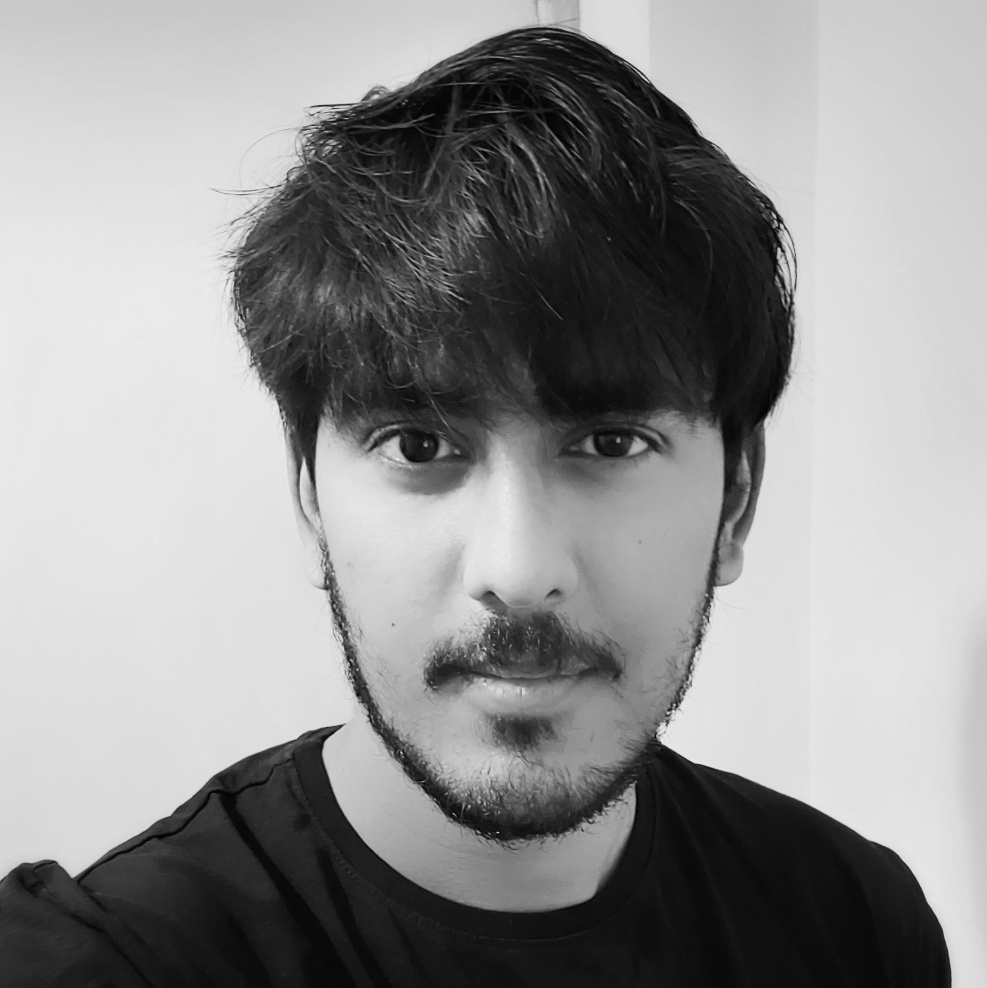
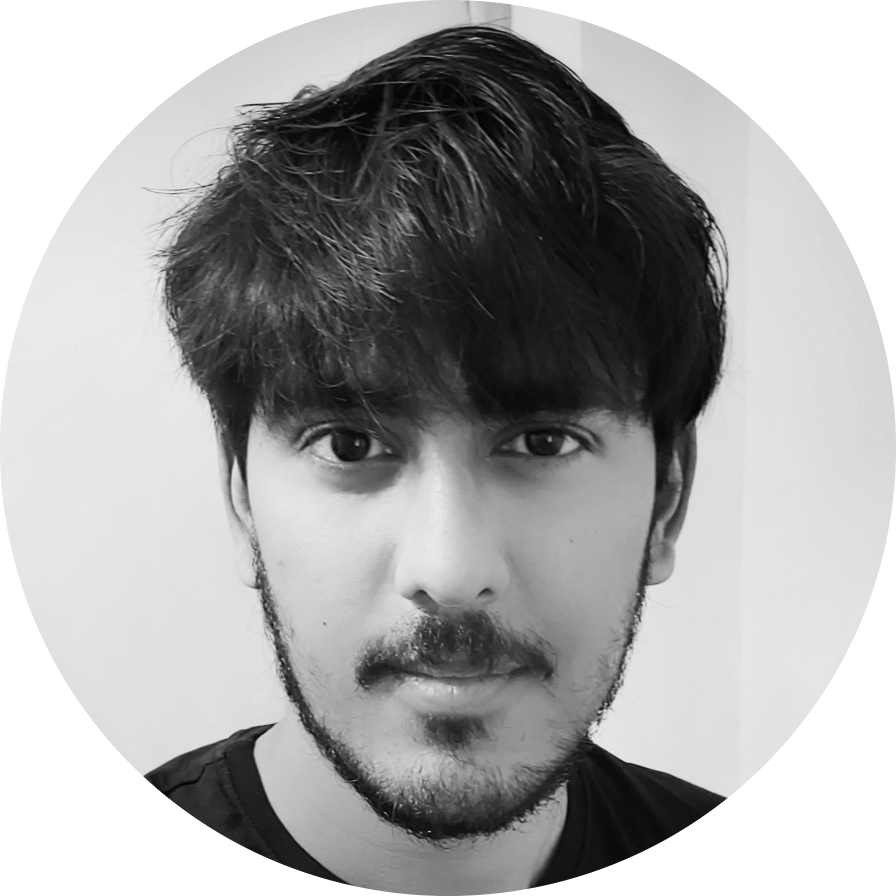
updated the html code for personal website

diff --git a/personal_website.html b/personal_website.html
@@ -7,30 +7,30 @@
     <title>Nithin Kumar M</title>
 </head>
 <body>
-    <img src="Nithin.jpeg" width="100" height="100">
+    <img src="Nithin.jpeg" width="200" height="200">
     <h1><font color="maroon">Nithin Kumar M</font></h1>
     <dt><em> Graphics Performance Verification Engineer</em></dt>
     <dt><em>Currently working at <strong> Intel Corporation</strong> | Ex- Arm | Ex- Tata Elxsi </em></dt>     
     <dt><em>Bangalore, India. PIN: 560064</em></dt>
 <hr>
 <h3><font color="maroon">About Me</font></h3>
-<p> I am a Verification Engineer with <strong>6+ Years</strong> of Industry level Experience. I currenty <strong>Lead the Performance Verification of L3 cluster</strong> in the Graphics Pipeline at <strong>Intel Corporation</strong>. My prior experience include working as a Verification Engineer at <strong>Arm</strong> Embedded Technologies and <strong>Tata Elxsi</strong> Private Limited. I have completed my <strong>Bachelors of Engineering</strong> in <strong>Electronics and Instrumentation</strong> from <strong>M.S.Ramaiah institute of Technology</strong>, Bangalore. I would like to work in an environment in which there are tons of challenges to better myself as an individual as well as contibute to the Organization</p>
+<li> I am a Verification Engineer with <strong>6+ Years</strong> of Industry level Experience. I currenty <strong>Lead the Performance Verification of L3 cluster</strong> in the Graphics Pipeline at <strong>Intel Corporation</strong>. My prior experience include working as a Verification Engineer at <strong>Arm</strong> Embedded Technologies and <strong>Tata Elxsi</strong> Private Limited. I have completed my <strong>Bachelors of Engineering</strong> in <strong>Electronics and Instrumentation</strong> from <strong>M.S.Ramaiah institute of Technology</strong>, Bangalore. I would like to work in an environment in which there are tons of challenges to better myself as an individual as well as contibute to the Organization</li>
 <hr>
 
 <h3><font color="maroon">Skills</font></h3>
 <ul>
-    <li> Verification :  System Verilog, UVM , VMM</li>
+    <li> Verification :  Verilog, System Verilog and UVM </li>
     <li> Languages : Python , C++, ARM Assembly, Perl and Ruby (basics) </li>
-    <li> Front-end : HTML5, CSS3, JavaScript </li>
-    <li> SVN tools : Gut, GitLab, GitHub, Tortoise Git</li>
-    <li> Simulators : ModelSim , Synopsys VCS</li>
-    <li> Operating systems : Windows, Linux</li>
-    <li> Code editors : Visual Studio, Atom , Sublime, Notepad++</li>
+    <li> Front-end : HTML5, CSS3 and JavaScript </li>
+    <li> SVN tools : Gut, GitLab, GitHub and Tortoise Git</li>
+    <li> Simulators : ModelSim and Synopsys VCS</li>
+    <li> Operating systems : Windows and Linux</li>
+    <li> Text Editors : Visual Studio, Atom , Sublime , Vim and Notepad++</li>
 </ul>
 <hr>
 
 <h3><font color="maroon">Work Experience</font></h3>
-<p><font color="Maroon"><strong>Intel Corporation  |  Graphics Performance Verification Engineer (AXG Group) | October 2020 to Present</strong></font></p>
+<li><font color="Maroon"><strong>Intel Corporation  |  Graphics Performance Verification Engineer (AXG Group) | October 2020 to Present</strong></font></li>
 <ul>
 <li>Lead Performance verification of L3 cache at Cluster, GT, SOC and Emulation level</li>
 <li>Responsible for Understaning the uarch and design, Performance scenario planning, Coding tests and testbench components in SV and UVM, debugging , project closure and thorough documentation</li>
@@ -43,7 +43,7 @@
 <li>Interviewing potential junor candiates for our team</li>
 </ul>
 
-<p><font color="maroon"><strong>Arm Embedded Tecnologies  |  Architecture Verification Engineer in v8A team (ATEG Group) | August 2018 to September 2020</strong></font></p>
+<li><font color="maroon"><strong>Arm Embedded Tecnologies  |  Architecture Verification Engineer in v8A team (ATEG Group) | August 2018 to September 2020</strong></font></li>
 <ul>
 <li>Majore focus on Core Aspects of the Architecture which included ISA ( Instruction set Architecture), Exception Model, IP Scenarios , A32 and A64 Execution states , FLoating points etc. to name a few</li>
 <li>Good Hands on experience in coding tests using Arm Assembly language</li>
@@ -52,13 +52,50 @@
 <li>Lead the release activities for 2 to 3 releases - Model debugger checks and CentOS checks</li>
 </ul>
 
-<p><font color="maroon"><strong>TATA Elxsi Private Limited  |  ASIC Verification Engineer (SBU) | August 2016 to July 2018</strong></font></p>
+<li><font color="maroon"><strong>TATA Elxsi Private Limited  |  ASIC Verification Engineer (SBU) | August 2016 to July 2018</strong></font></li>
 <ul>
 <li>I was part of 4 different projects which involved IP and SOC level verification for client RENESAS ( UK and JAPAN) </li>
 <li>Coded multiple testbench components from scratch using SV and UVM</li>
 <li>Good handon experience in Ethernet , CAN , CAN-FD Protocols</li>
 <li>Responsible for validating Ethernet frame control, coding tests, UVM components, assertions and coverage plans for the feature</li>
 </ul>
+
+<h3><font color="maroon"> Achievements</font></h3>
+<ul>
+    <li> Recieved various rewards and recognitions from ARM and INTEL for work related contributions.</li>
+    <li> Volunteered and developed Android & IOS Mobile Application for Regional Engineering Conference-2019 (Asia level).</li>
+    <li> Good experience in giving sessions on system verilog, UVM and mentoring junior engineers</li>
+    <li> Sharing knowledge with Engineering students, I have conducted seminars on ARM Architecture in College. Received recognitions from the Head of Department for the same</li>
+    <li>Alumini Project Award winner for Humanoid Robot in 2016 ( funded by State Government of Karnataka) during my Bachelors Degree.</li>
+    <li>Runner-up of ABB Innovation Challenge India held in 2016.</li>
+    <li> Curious in learning python, web development, machine learning, soft skills. Below are some of the major online certifications i have received over time. (Please visit my linkedin profile for more details) 
+        <ul>
+        <li>Python : Data Structures and Algorithms</li>
+        <li>OVM and UVM testbench development</li>
+        <li>Web devlopment with HTML and CSS</li>
+        <li>Complete Python bootcamp</li>
+        <li>Machine learning and AI foundations</li>
+        <li>Six sigma Foundations</li>
+        <li>Ethical Hacking</li>
+        <li>Deep learning and Face recognition</li>
+        <li>Basics of Data science</li>
+        </ul>
+    </li>
+</ul>
+
+<h3><font color="maroon"> Contact Information</font></h3>
+<ul>
+<li><strong>Mobile :</strong> +917338035715</li>
+<li><strong>Mail-ID :</strong> nithinbhargav007@gmail.com</li>
+<li><strong>Linkedin :</strong> www.linkedin.com/in/nithinkumarm</li>
+<li><strong>GitHub :</strong> https://github.com/nithinbhargav007</li>
+<li><strong>Address :</strong> J7-106, Provident Welworth City,<br>
+              Marasandra to Doddaballapur Main Road,<br>
+              Bangalore-562163
+</li>
+</ul>
+
+
 
 </body>
 </html>
